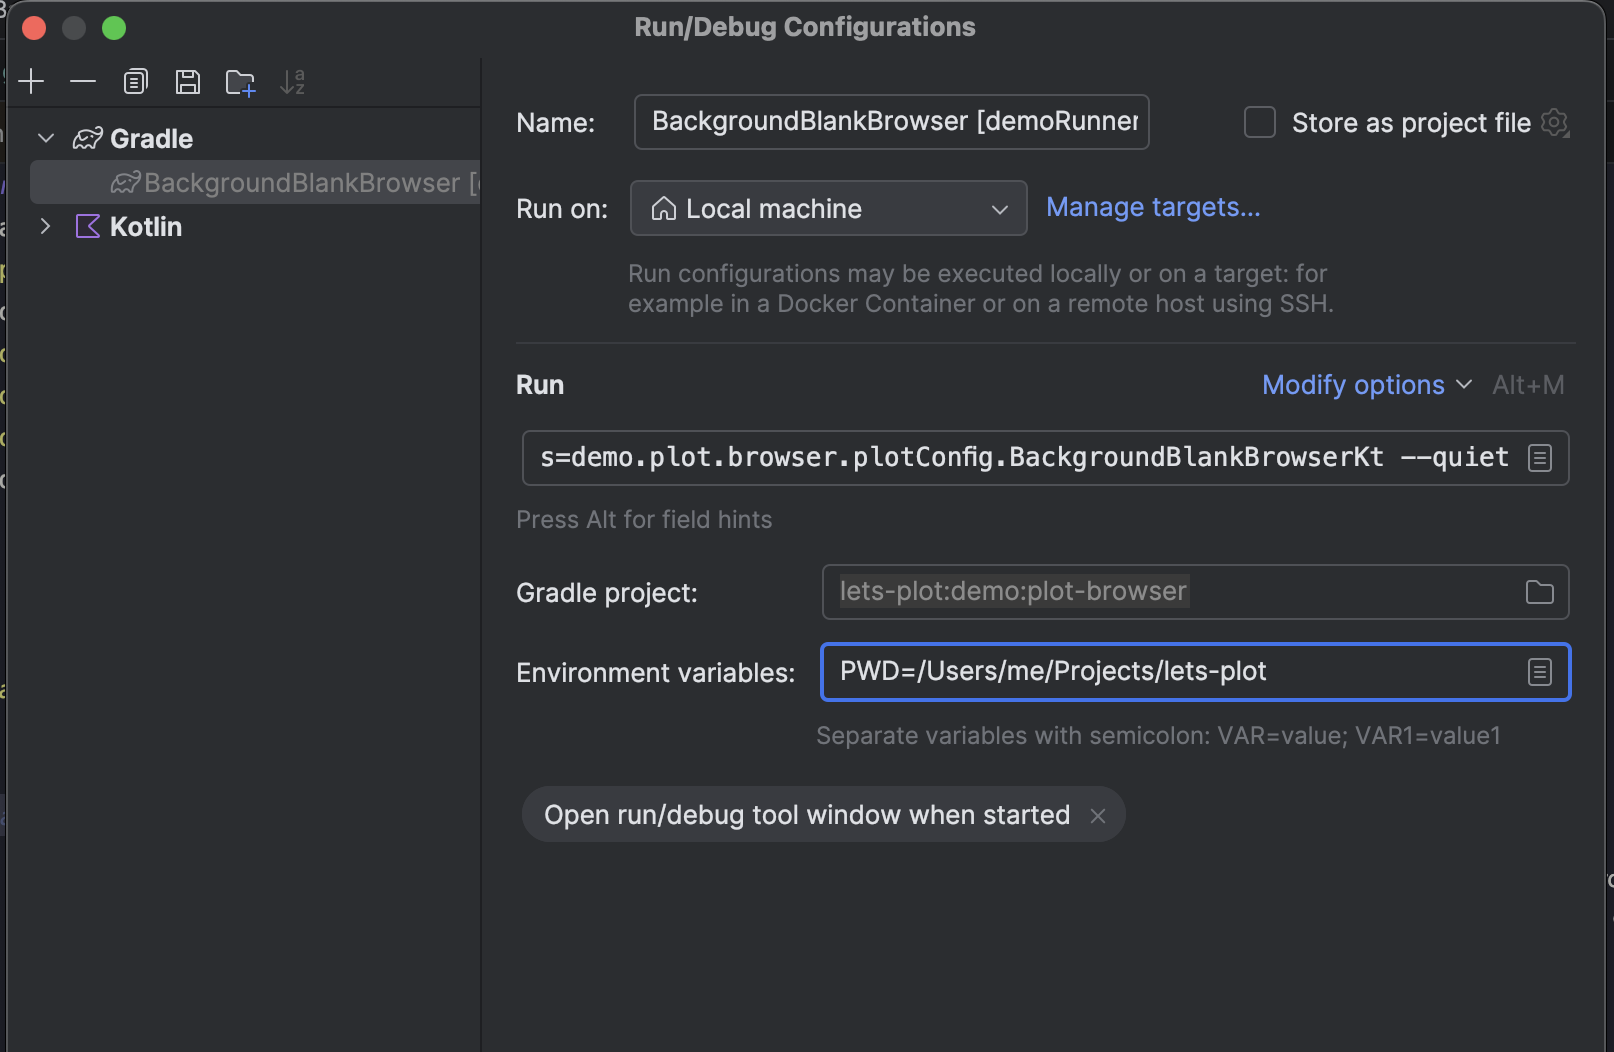
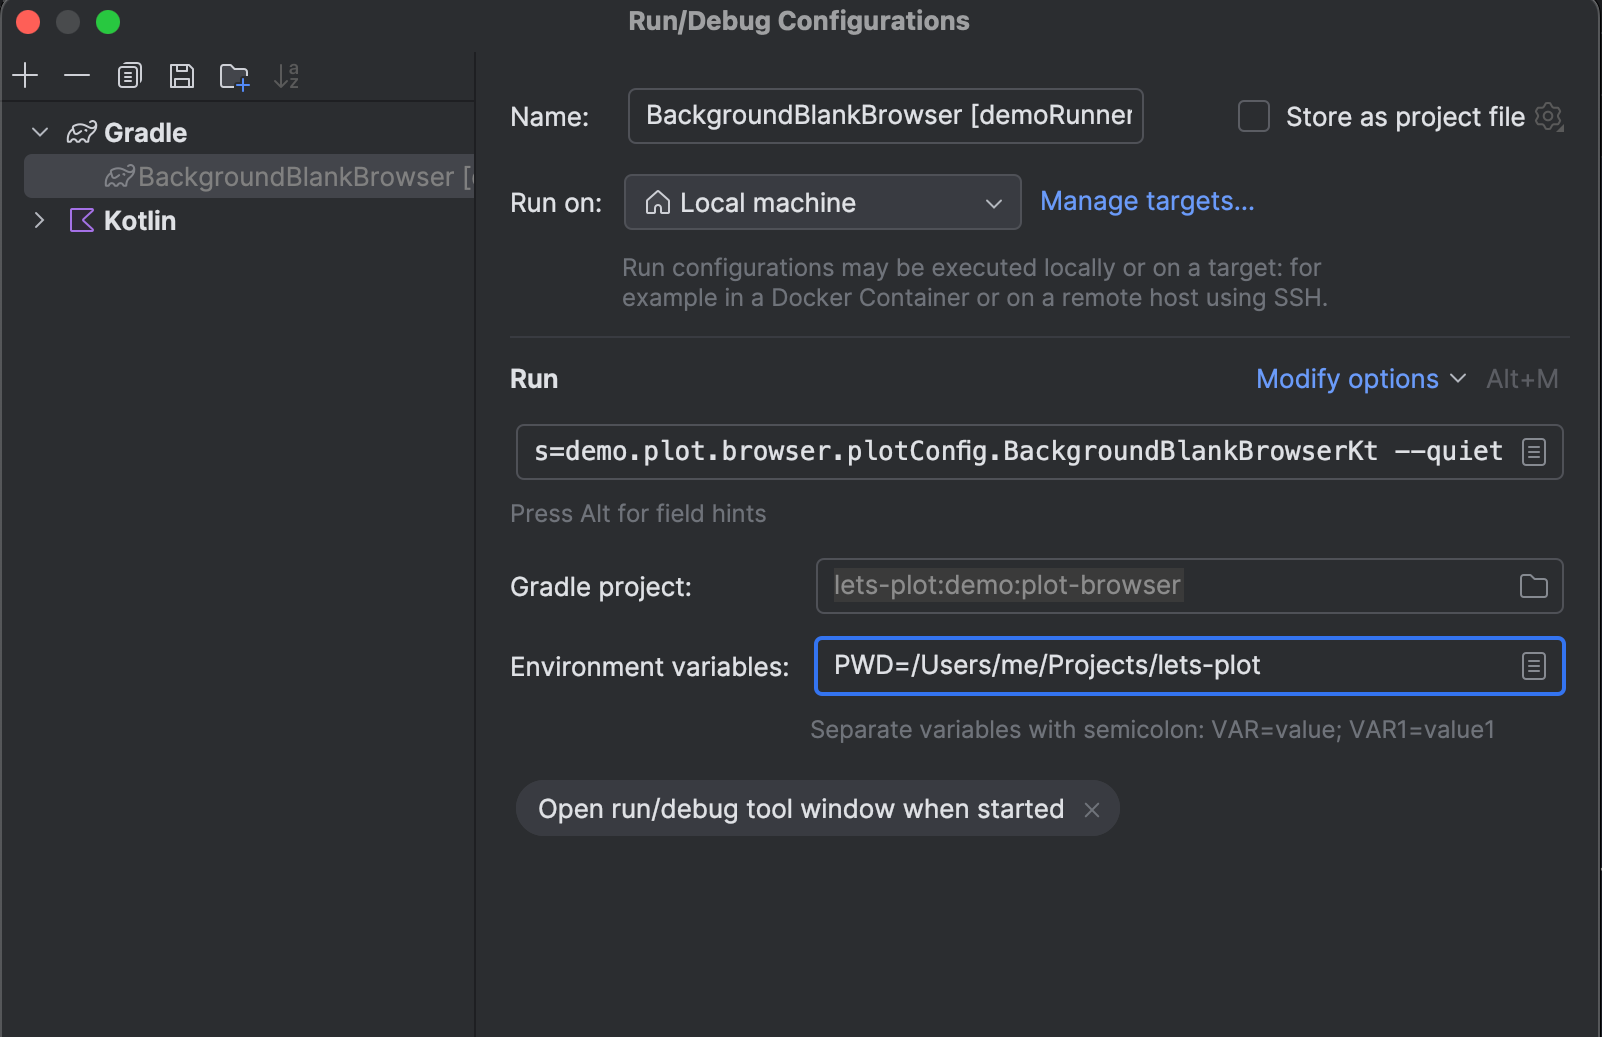
Update image for the browser demo README.md

diff --git a/demo/README.md b/demo/README.md
@@ -16,7 +16,7 @@ After modifying code in the core libraries the `js-package` module must be rebui
 ### Error: `'PWD' env variable is not defined`
 Add an environment variable to the run configuration. The path should point to the project root, e.g. `/Users/me/Projects/lets-plot`. You can retrieve the path by right-clicking the project root and selecting `Copy Path` -> `Absolute Path`.
 
-<img src="https://raw.githubusercontent.com/JetBrains/lets-plot/master/demo/run_config.png" alt="demo/run_config.png width="400" height="164">
+<img src="https://raw.githubusercontent.com/JetBrains/lets-plot/master/demo/run_config.png" >
 
 ### Error: `Could not find or load main class ...<DemoName>Kt`
 This error occurs when the `main()` function is placed inside a `companion object`. Move the main function outside the companion object or modify the run configuration by removing the `Kt` suffix from the main class name.
